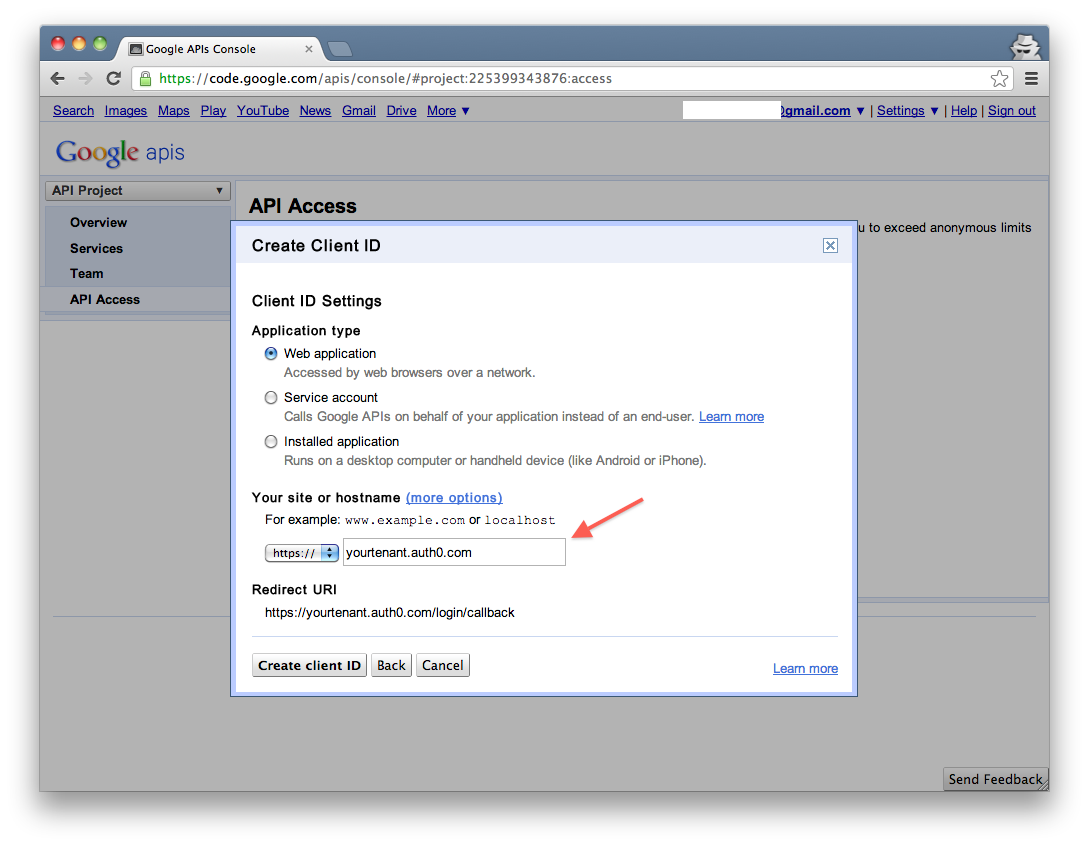
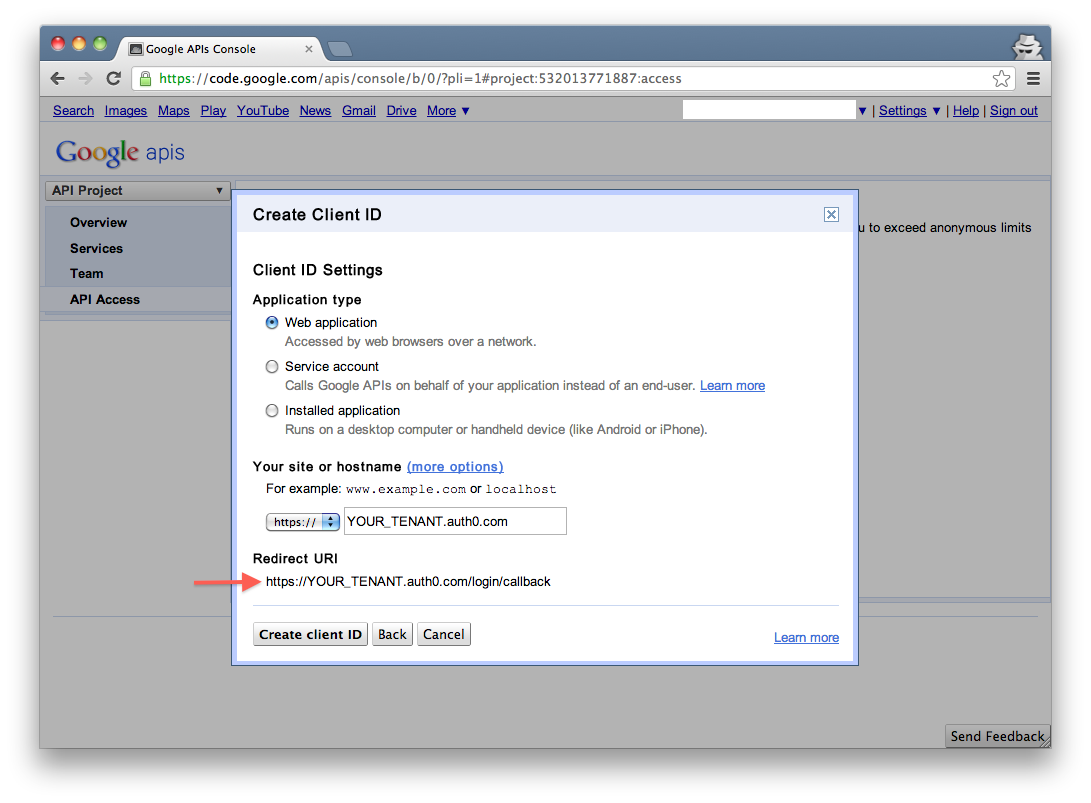
fixed screenshots goog. Added Idp

Changed region(s): [[0.0312, 0.0311, 0.9679, 0.8406], [0.843, 0.9029, 0.9679, 0.934], [0.7805, 0.6849, 0.8118, 0.7783]]

diff --git a/docs/identityproviders.md b/docs/identityproviders.md
@@ -4,7 +4,7 @@
 
 # Identity Providers 
 
-Auth0 is an "identity hub" that supports a number of authentication providers using different protocols: OAuth2, WS-Federation, etc.
+Auth0 is an "identity hub" that supports a number of authentication providers using different protocols: OAuth2, WS-Federation, etc. 
 
 ![](http://markdownr.blob.core.windows.net/images/2142124826.png)
 
@@ -21,7 +21,7 @@ Once you add a Google OpenId connection, you are ready to go. The authentication
 
 1. A user initiates login in the app
 2. User is redirected to Auth0 
-3. User's immediately redirected to Google for authentication. 
+3. User is immediately redirected to Google for authentication 
 4. User enters username and password 
 5. User consents to disclosing information (name, e-mail) to Auth0
 6. A postback happens against the app callback URL

diff --git a/docs/ms-account-clientid.md b/docs/ms-account-clientid.md
@@ -13,8 +13,8 @@ Log into [the Developer Center](http://msdn.microsoft.com/en-us/live/ff519582), 
 
 ![](img/ma-portal-2.png)
 
-Once the app is created, the `ClientId` and `ClientSecret` will be available. Enter this information into your connection settings. 
+After the app is created, copy the `ClientId` and `ClientSecret` and enter them into your connection settings. 
 
-This is also a good time to setup your callback URL into Auth0. That information should go into the `redirect domain` textbox.
+Also, make sure you setup the callback URL for the app. That information should go into the `redirect domain` textbox and for your setup is:
 
 	http://@@account.namespace@@/login/callback
